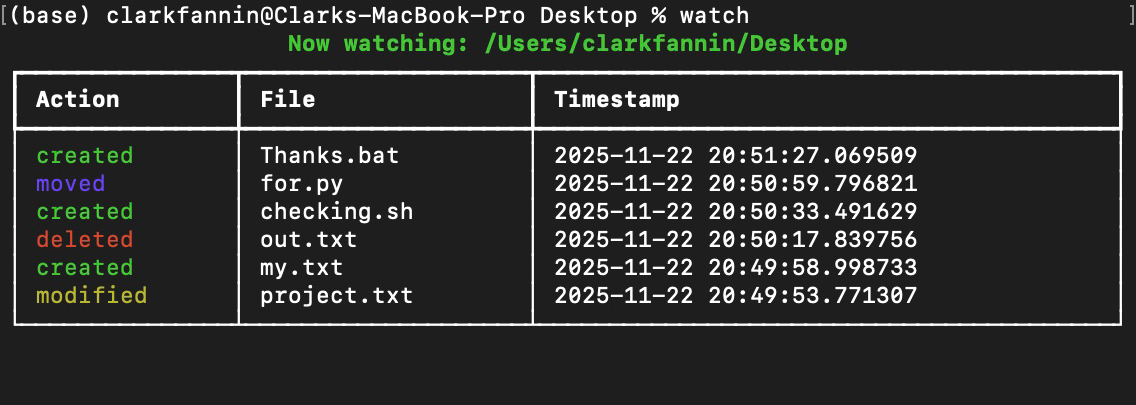
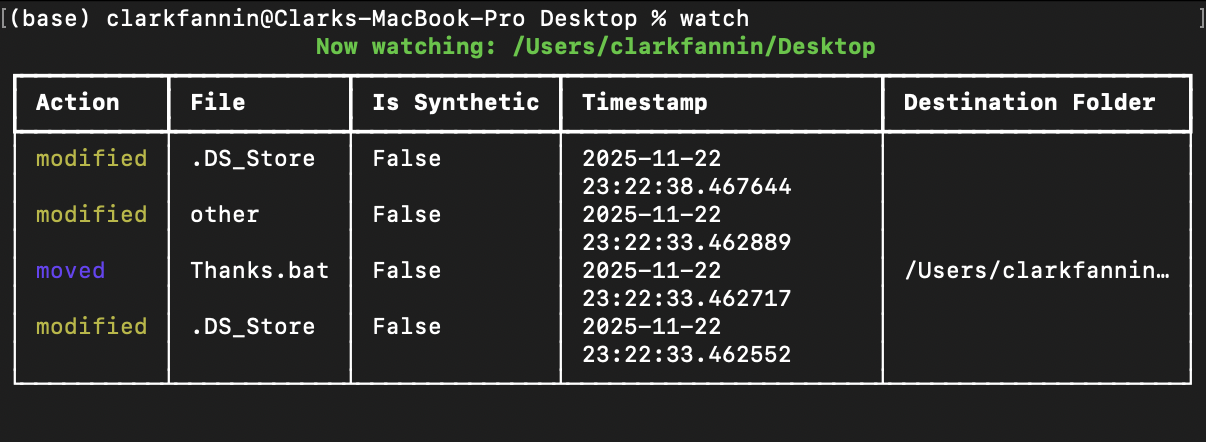
Added image to readme

Changed region(s): [[0.0, 0.0, 1.0, 0.8889], [0.9859, 0.0, 1.0, 0.0296]]

diff --git a/README.md b/README.md
@@ -4,7 +4,7 @@
 
 pthui is a tiny, color-coded TUI wrapper for watchdog. Install it globally and use it from anywhere!
 
-![alt text](images/pthui.png "Logo Title Text 1")
+![pthui Simple Mode](images/pthui.png "Simple Mode")
 
 ## Prerequisites
 
@@ -71,6 +71,9 @@ watch /path/to/folder
 ```
 
 Set `simple=False` in `tui.py` to enable more detailed monitoring.
+
+![pthui Extended Mode](images/pthui_extended.png "Extended Mode")
+
 
 Set `export=True` in `tui.py` to export the output to HTML. Output will be saved to the current working directory.
 
